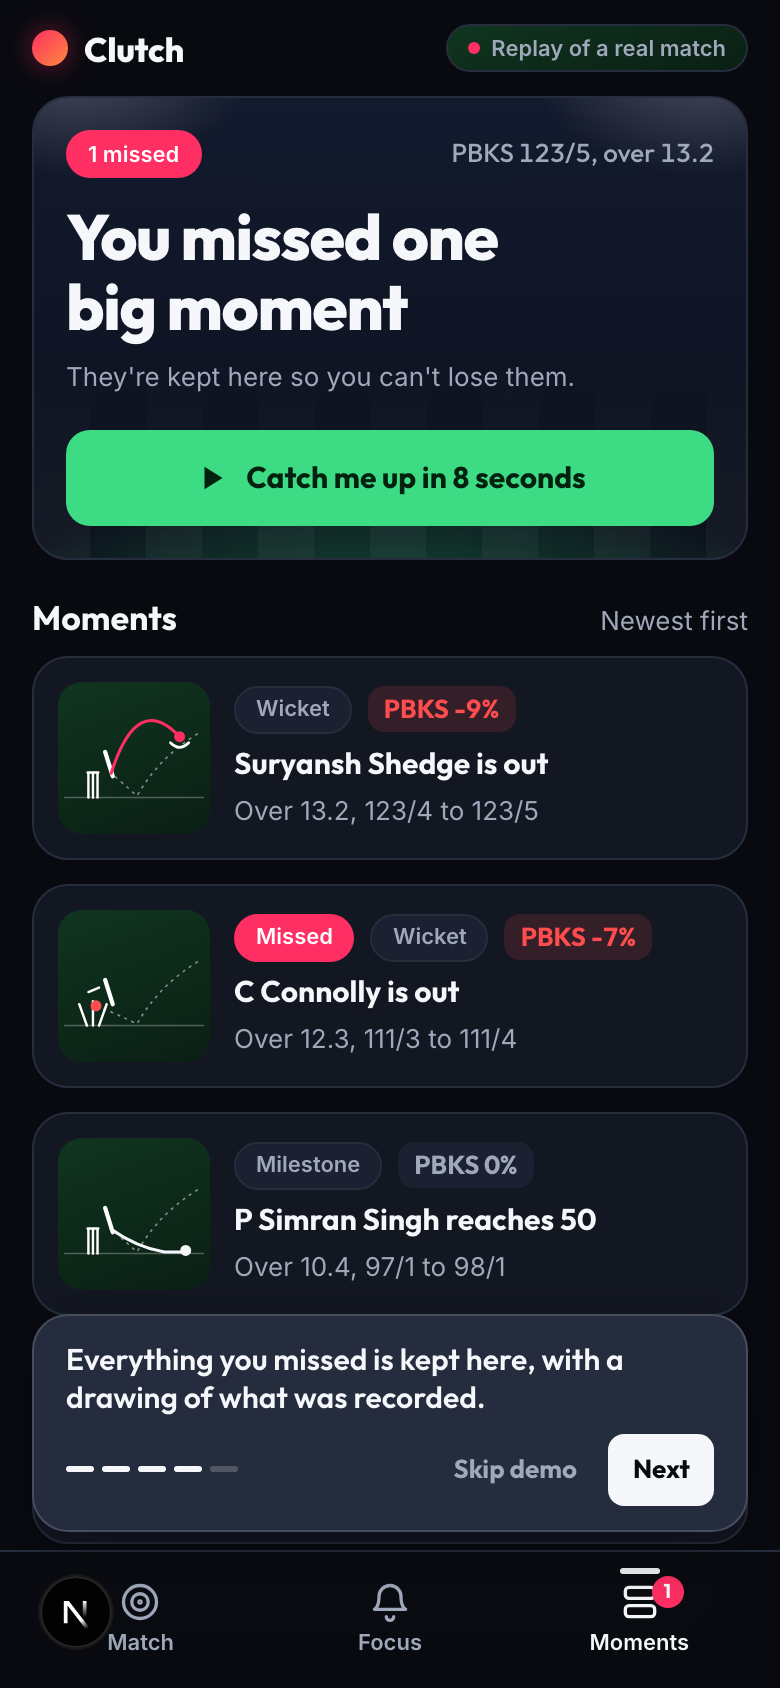
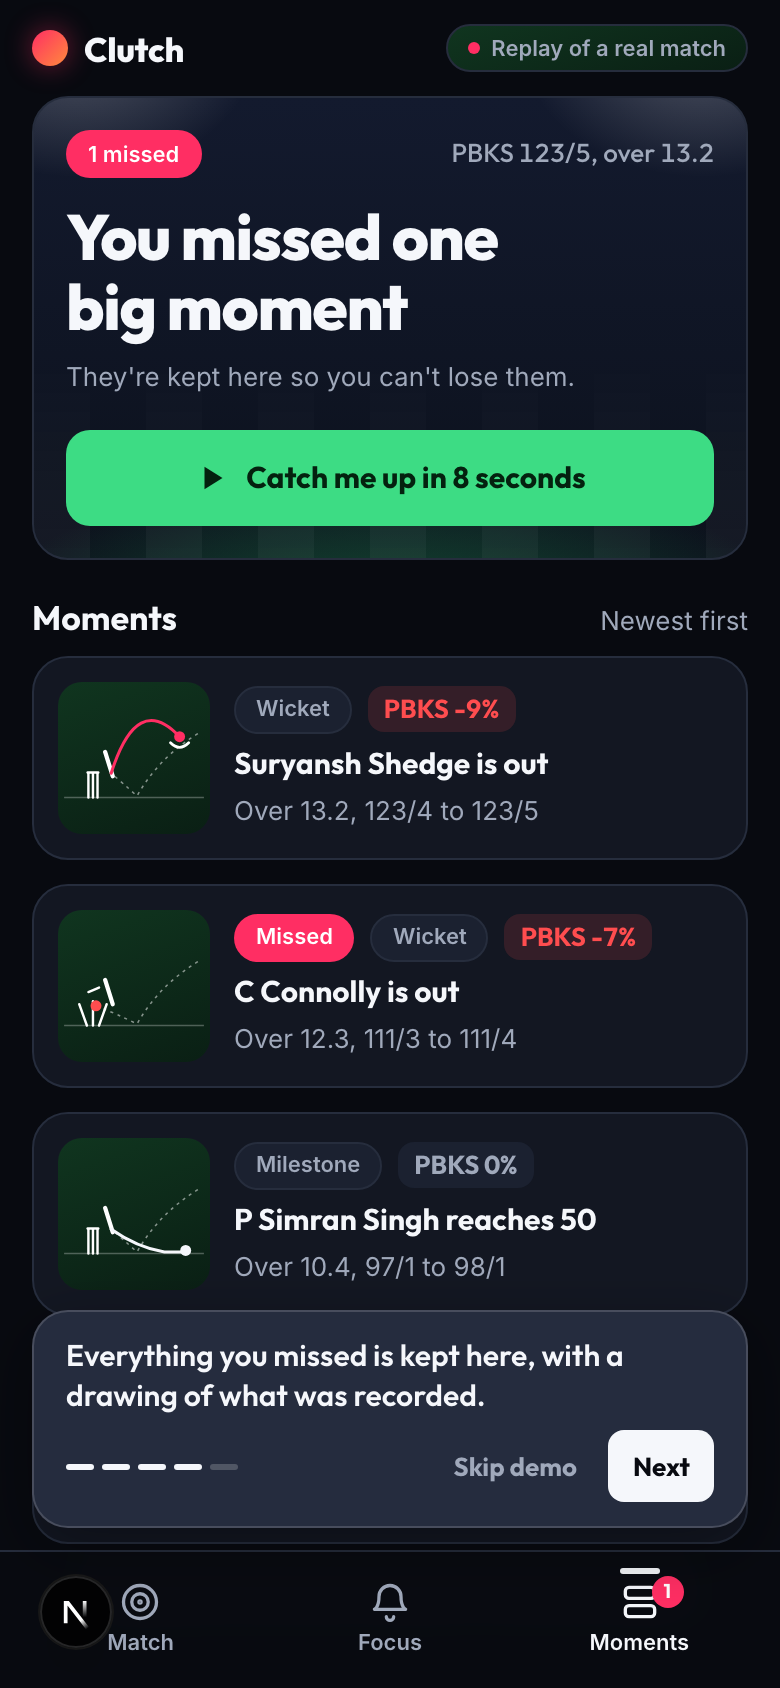
Keep the card's buttons in reach, tokenise bar offsets, fill the submission note
The explanation card's two buttons sit in a sticky bar, so they are on screen
however long the card is. The tab bar height is a token. The layout holds at
360 px with no sideways scroll. The submission note is filled from split.json
and pulse_eval.json; the AI workflow log lists what went wrong and how it was caught.

Changed region(s): [[0.0615, 0.7701, 0.9538, 0.8318], [0.0615, 0.8626, 0.9538, 0.9242]]

diff --git a/app/globals.css b/app/globals.css
@@ -111,7 +111,7 @@ h3,
   font-size: var(--t-micro);
 }
 .screen {
-  padding-bottom: calc(5.75rem + env(safe-area-inset-bottom));
+  padding-bottom: calc(var(--tabbar-h) + var(--s-5) + env(safe-area-inset-bottom));
 }
 .sr-only {
   position: absolute;
@@ -920,7 +920,7 @@ h3,
   position: fixed;
   left: 50%;
   translate: -50% 0;
-  bottom: calc(4.4rem + env(safe-area-inset-bottom));
+  bottom: calc(var(--tabbar-h) + env(safe-area-inset-bottom));
   width: 100%;
   max-width: 430px;
   padding: var(--s-6) var(--gutter) var(--s-3);
@@ -1034,7 +1034,7 @@ h3,
   position: fixed;
   left: 50%;
   translate: -50% 0;
-  bottom: calc(4.9rem + env(safe-area-inset-bottom));
+  bottom: calc(var(--tabbar-h) + var(--s-2) + env(safe-area-inset-bottom));
   width: calc(100% - 2 * var(--gutter));
   max-width: calc(430px - 2 * var(--gutter));
   padding: var(--s-3) var(--s-4);
@@ -1347,4 +1347,12 @@ h3,
   z-index: var(--z-burst);
   bottom: auto;
   top: calc(var(--s-3) + env(safe-area-inset-top));
+}
+
+/* The card's buttons stay in reach however long the card is. */
+.sheet-actions {
+  position: sticky;
+  bottom: 0;
+  padding: var(--s-5) var(--s-4) calc(var(--s-4) + env(safe-area-inset-bottom));
+  background: linear-gradient(transparent, var(--surface) 34%);
 }

diff --git a/components/ExplanationCard.tsx b/components/ExplanationCard.tsx
@@ -228,6 +228,14 @@ export function ExplanationCard({
               {card.watch}
             </p>
           ) : null}
+          <p className="micro faint">
+            Every number here comes from the match data and is checked before you see it.
+            {card?.source === "template"
+              ? ` This wording is a fixed template${mine !== "plain" && !plain ? ` for ${WORLD_LABEL[mine].toLowerCase()}` : ""}, not written by an AI model.`
+              : ""}
+          </p>
+        </div>
+        <div className="sheet-actions">
           <div className="row">
             {mine !== "plain" ? (
               <Button onClick={() => setPlain((p) => !p)} style={{ flex: 1 }}>
@@ -238,12 +246,6 @@ export function ExplanationCard({
               Got it
             </Button>
           </div>
-          <p className="micro faint">
-            Every number here comes from the match data and is checked before you see it.
-            {card?.source === "template"
-              ? ` This wording is a fixed template${mine !== "plain" && !plain ? ` for ${WORLD_LABEL[mine].toLowerCase()}` : ""}, not written by an AI model.`
-              : ""}
-          </p>
         </div>
       </div>
     </>

diff --git a/design/tokens.css b/design/tokens.css
@@ -81,6 +81,7 @@
   --s-7: 2rem;
   --gutter: var(--s-4);
   --tap: 3rem;            /* 48px minimum touch target */
+  --tabbar-h: 4.5rem;     /* height of the fixed tab bar, for things that sit above it */
 
   /* ---- Radius --------------------------------------------------------- */
   --r-chip: 8px;

diff --git a/docs/AI-WORKFLOW.md b/docs/AI-WORKFLOW.md
@@ -14,7 +14,7 @@ I did not write most of this code by hand. I directed it, reviewed it, and studi
 | Tool | Used for | Not used for |
 |---|---|---|
 | Claude Code (Anthropic), model Claude Fable 5.2 | Research, the plan, every document in `docs/`, the design tokens and mock-ups, the agent setup in `.claude/`; from 14 Nov, code and tests | Deciding the problem, the hypothesis or scope |
-| _LLM provider used in the product (fill in: name and model)_ | Wording of explanation cards and Back me up closing lines, from facts built by code | Any fact, number or decision in the product |
+| _LLM provider used in the product (fill in: name and model)_. **As of 15 Nov: none. No LLM has written any card; all cards are fixed templates** | Wording of explanation cards, from facts built by code | Any fact, number or decision in the product |
 | _Judge model for the rubric (fill in)_ | Scoring analogy quality in evals | |
 | _Any other tool (fill in, or delete this row)_ | | |
 
@@ -30,7 +30,8 @@ I did not write most of this code by hand. I directed it, reviewed it, and studi
 | 13 Nov | Accepted the third direction (match centre with cards, crests, jerseys and the Pulse ring) as good enough to start building, to be improved alongside the build | Mine | Not yet the design I want |
 | 13 Nov | Notifications from the open page only; closed-app push not built | AI flagged it as unrealistic in three days; _(fill in: agreed / changed)_ | DECISIONS/0007 |
 | 13 Nov | Mini replay as a labelled drawing, not a ball path | AI found the data has no tracking; _(fill in)_ | DECISIONS/0008 |
-| | Replay match chosen: _(fill in)_ | Mine | |
+| 15 Nov | Replay match: Punjab Kings v Mumbai Indians, IPL, 14 May 2026 | The AI ranked test-split matches and proposed it; I chose it | The AI's first pick (MI v RCB) made the Pulse hot for the whole chase, so it was replaced before I chose |
+| 14 Nov | Removed the run-rate feature from the model; cool-down of 6 balls instead of 12; three tabs instead of four; fixed analogy templates when there is no LLM key | AI decided while building and wrote each into the docs; _(fill in: agreed / changed)_ | BUILD-PLAN "What was done differently" |
 | | My world for the demo: _(fill in)_ | Mine | |
 | | _(add rows as they happen)_ | | |
 
@@ -69,6 +70,14 @@ Kept because it is the useful part. Add every one, including small ones.
 | 13 Nov | Second design over-corrected into a bare page with large serif text | My review of the mock-ups | Redesigned as a match-centre app |
 | 13 Nov | The AI wrote full design documents before showing me a screenshot, twice, so two rounds of documents were thrown away | Hindsight | Screenshots first from now on |
 | 13 Nov | The original plan described a ball-path replay the data cannot support | The AI checked the data format before writing the spec | Changed to a labelled drawing |
+| 14 Nov | The model's run-rate feature blew up in the first over: one six on ball one moved the win chance by 33 points and the opening ball was rated a decider | The AI inspected the exported match and saw a call-back on ball one | Feature removed, model retrained, reason written in MODEL.md |
+| 14 Nov | The plan's cool-down (12 balls) made its own target (about 25 call-backs) impossible | The AI worked out the maximum while writing the threshold fit | Cool-down set to 6 balls, documented |
+| 14 Nov | A CSS class named `ring` clashed with a Tailwind utility and drew a white box around the Pulse | Seen in the first real screenshot | Class renamed `pulse-ring` |
+| 14 Nov | The AI's own template cards broke its own check ("out of 100" was not an allowed phrase; a moment id leaked into the allowed numbers; "one side" counted as the number one) | The template tests failed | Fixed the facts builder, the phrase list and the wording |
+| 14 Nov | The first replay match the AI picked was tight for the whole chase, so the Pulse never moved from calm to hot | The demo walk-through | Ranked matches by calm-then-tense shape and switched |
+| 14 Nov | Catch me up re-ran an effect on every render | An end-to-end test failed | Callbacks made stable |
+| 14 Nov | Tests were mostly written alongside the code, not before it, against the project rule | The AI reported it | Left as is; recorded here and in BUILD-PLAN |
+| 15 Nov | The Pulse word touched its ring and "Look up" looked barely different from "Building" | The design-critic agent, reading real screenshots | Ring given more room, hot state made louder |
 | | | | |
 
 ## What I can explain without help

diff --git a/docs/SUBMISSION-NOTE.md b/docs/SUBMISSION-NOTE.md
@@ -1,31 +1,33 @@
 # Submission note (200 words)
 
-Draft. Blanks are filled from saved results only; if a number is not measured by submission, its sentence is removed, not estimated. Final word count must be 200 or fewer.
+Filled on 15 Nov from `model/artifacts/split.json` and `pulse_eval.json` (the "Big moments" bar). If a number changes, change it here from the file. Final word count must be 200 or fewer.
+
+One sentence depends on work not done yet: the cards are explained by fixed templates until an LLM key is used. If LLM-written cards are generated and pass `evals:check` before submitting, change "Each is explained" to "An LLM explains each". Until then the note must not say an LLM writes them.
 
 ---
 
 **Clutch: the friend who tells you when to look up**
 
-I follow sport casually. The match is on beside my work, I look away, and I miss the one ball everyone talks about. With friends, a player walks in, the room roars, and I don't know why. I can't keep asking.
+I follow sport casually. The match is on beside my work, I look away, and I miss the one ball everyone talks about. With friends, the room roars and I don't know why. I can't keep asking.
 
 Live sport is long quiet stretches and a few seconds that matter. Nobody tells casual fans which seconds.
 
-**Hypothesis:** if a fan is called back when a moment matters, can see what they missed, and is told why in terms they already know, they stay with the match.
+**Hypothesis:** if a fan is called back when a moment matters, sees what they missed, and is told why in terms they already know, they stay with the match.
 
-**What I built:** a match-centre app with one ring, the Pulse. A win-probability model, trained on ____ T20 matches, scores what is at stake on every ball. The Pulse fills and calls you back before big moments. Missed moments are kept on a shelf with a drawn replay. An LLM explains each one in your world (football, F1, chess, Bollywood, gaming); code supplies every fact and checks every number. Friends can join a room by code.
+**What I built:** a match-centre app with one ring, the Pulse. A win-probability model, trained on 3,137 T20 matches, scores what is at stake on every ball. The Pulse fills and calls you back before big moments. Missed moments are kept on a shelf with a drawn replay. Each is explained in your world (football, F1, chess, Bollywood, gaming); code supplies every fact and checks every number.
 
-**Honest limits:** it replays a real past match as live. No real users, so the hypothesis is untested. On held-out matches, call-backs came before ____% of the biggest swings.
+**Honest limits:** it replays a real past match as live. No real users, so the hypothesis is untested. On 673 held-out matches, call-backs came before 52% of the biggest swings; random ones caught 22%. Rooms with friends are designed, not built.
 
-Built with AI coding agents; decisions and review are mine. Details: docs/AI-WORKFLOW.md.
+Built with AI coding agents; decisions and review are mine: docs/AI-WORKFLOW.md.
 
 ---
 
-Word count of the note above (title to last line): about 200. Recount after filling the blanks.
+Word count of the note above (title to last line): 213, counted by script on 15 Nov. Recount after any edit.
 
 ## Before submitting
 
-- [ ] Every blank filled from `model/artifacts/` or `evals/results/`, or its sentence removed
-- [ ] "Friends can join a room by code" removed if tier 2 was not built
+- [x] Every blank filled from `model/artifacts/` or `evals/results/`, or its sentence removed
+- [x] "Friends can join a room by code" removed (tier 2 was not built)
 - [ ] The worlds listed are the ones that actually work
 - [ ] 200 words or fewer
 - [ ] The form's AI question answered from `docs/AI-WORKFLOW.md`, in the same words
